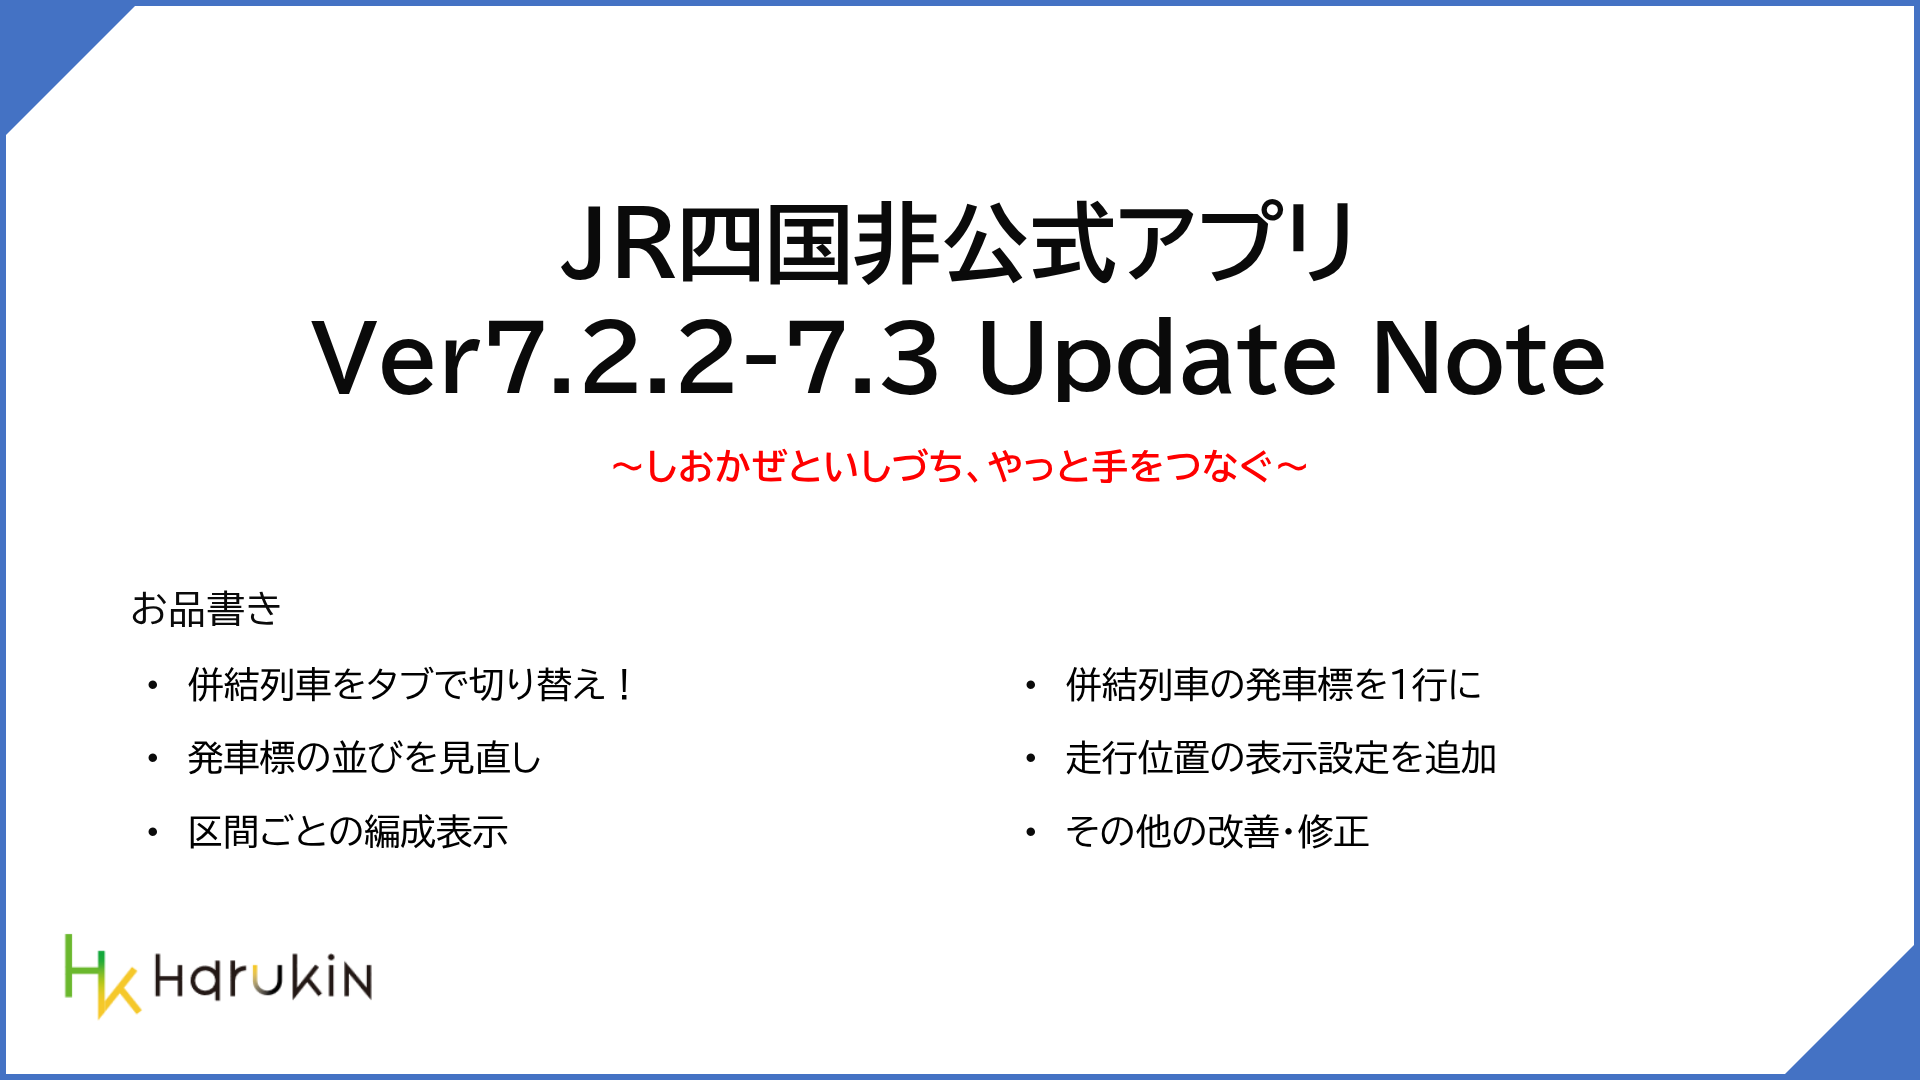
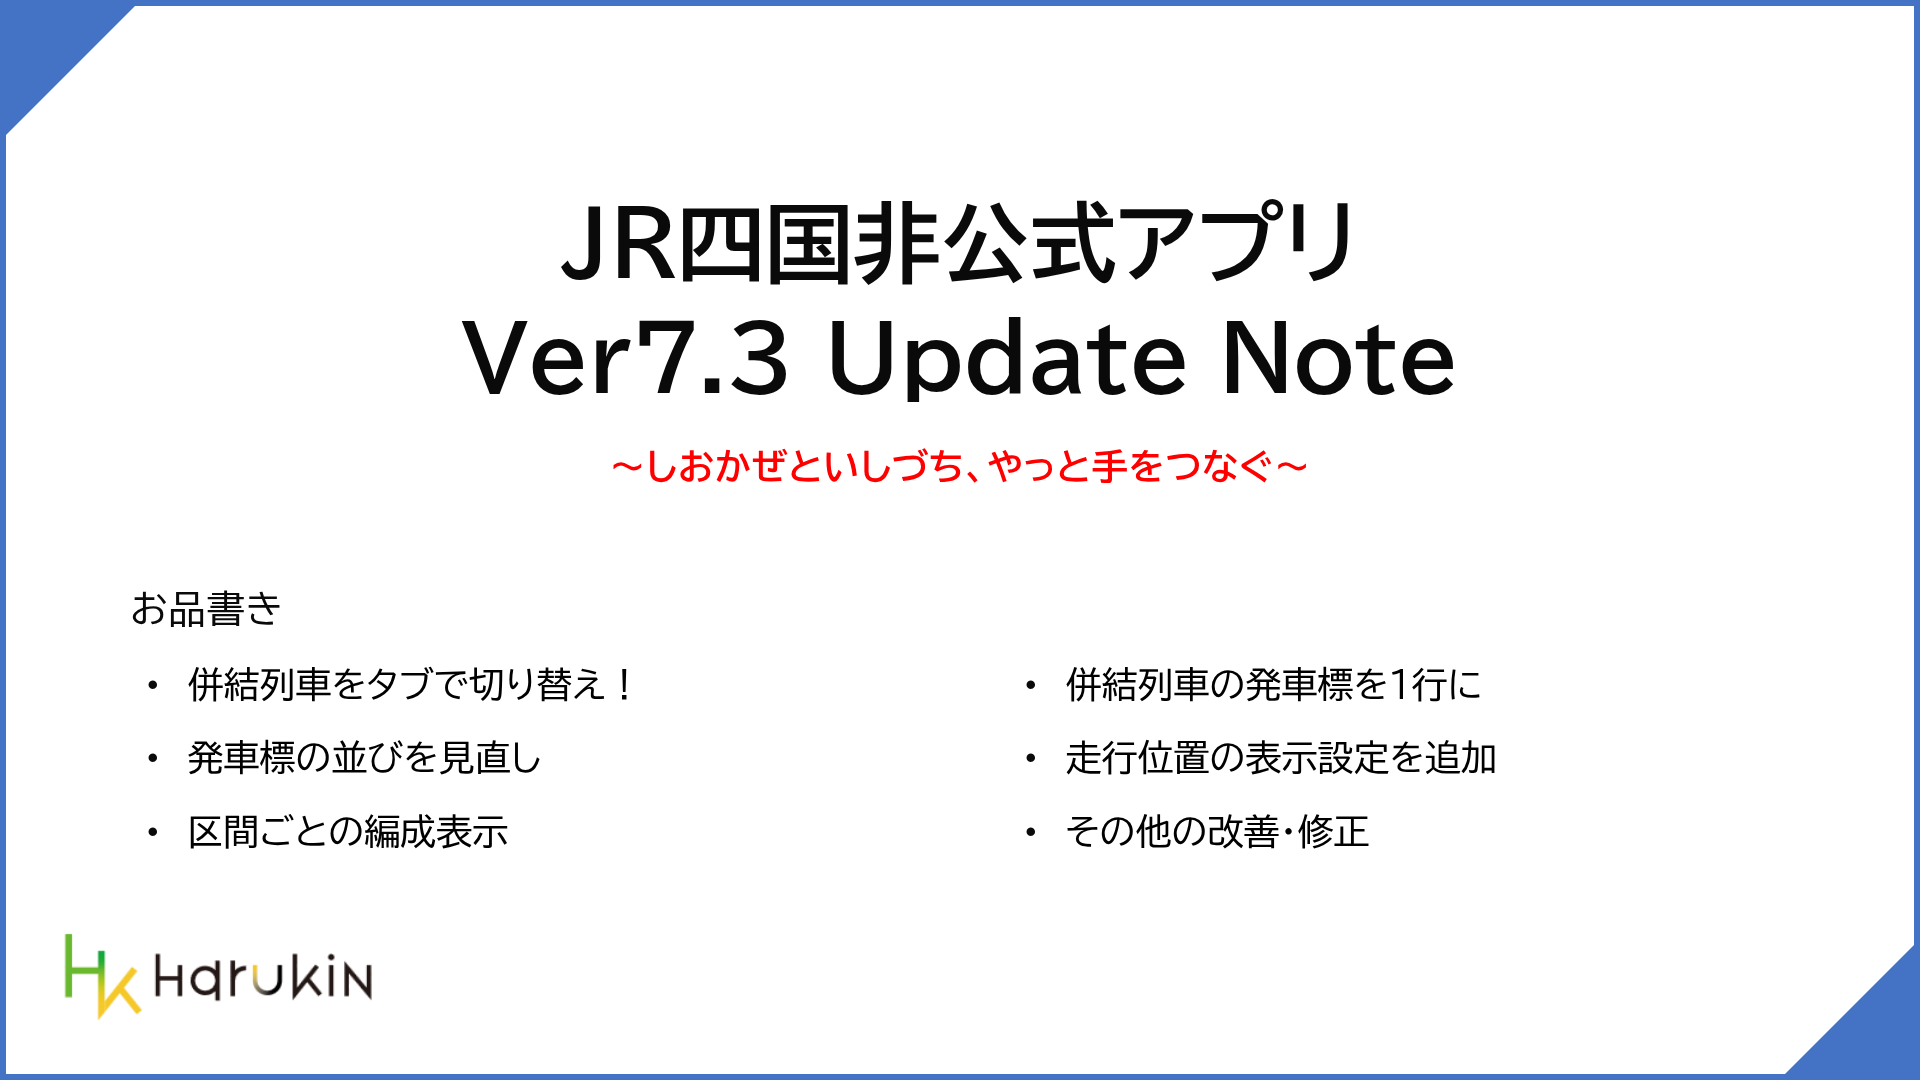
fix: show only version 7.3 on announcement cover

Changed region(s): [[0.1562, 0.275, 0.8438, 0.3667]]

diff --git a/slides/7.3/slides.md b/slides/7.3/slides.md
@@ -1,6 +1,6 @@
 ---
 info: |
-  7.2.2 → 7.3 Update Note
+  7.3 Update Note
   併結列車のタブ表示・発車標の1行化・走行位置設定。
 canvasWidth: 1920
 fonts:
@@ -8,7 +8,7 @@ fonts:
   webfonts: []
 layout: cover
 title: JR四国非公式アプリ
-version: Ver7.2.2-7.3 Update Note
+version: Ver7.3 Update Note
 sub: 〜しおかぜといしづち、やっと手をつなぐ〜
 menu:
   - 併結列車をタブで切り替え！
